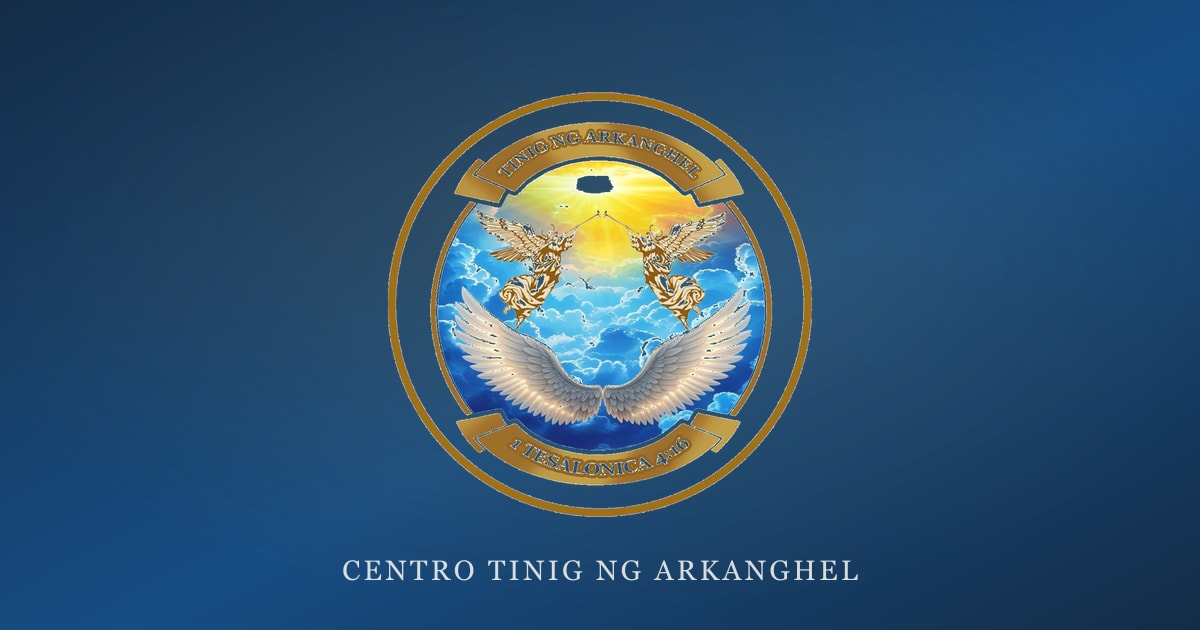
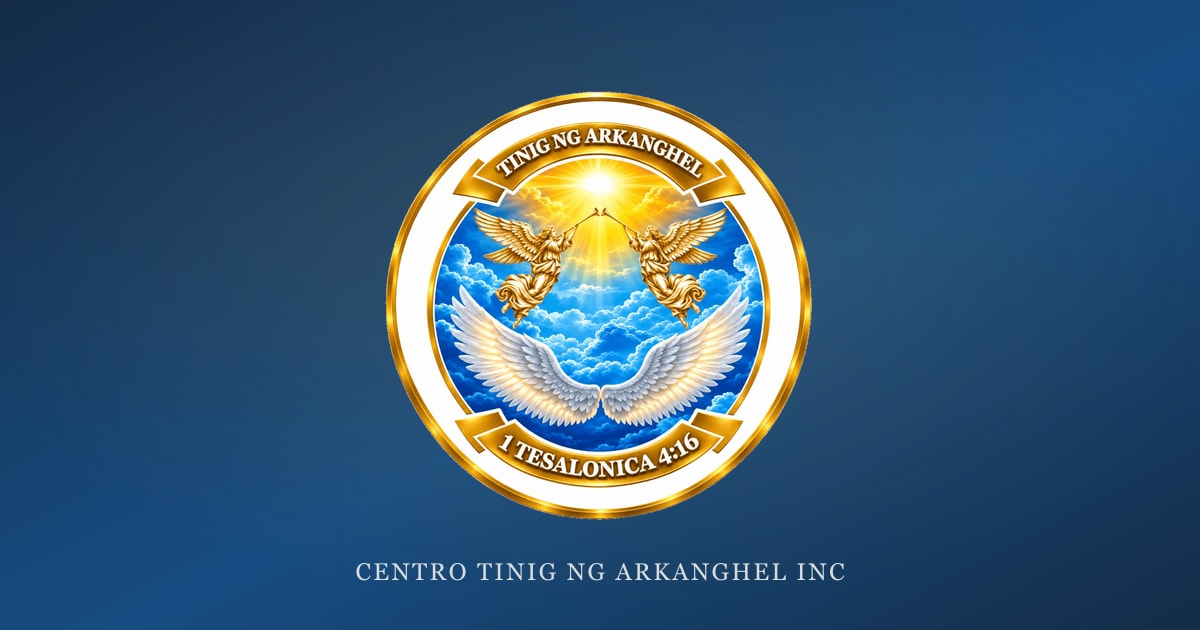
fx

Changed region(s): [[0.3083, 0.1206, 0.6783, 0.8444], [0.2775, 0.8746, 0.7092, 0.9349]]

diff --git a/src/pages/HomePage.tsx b/src/pages/HomePage.tsx
@@ -46,20 +46,29 @@ export function HomePage() {
           <div className="absolute inset-0 bg-gradient-to-br from-light-glow via-ivory to-sky/25" />
         )}
 
-        <div className="relative mx-auto grid max-w-6xl items-center gap-10 px-4 py-20 sm:px-6 lg:grid-cols-[1fr_1.1fr] lg:py-28">
+        <div
+          className={`relative mx-auto flex max-w-6xl flex-col px-4 py-16 sm:px-6 sm:py-20 lg:py-24 ${
+            hero ? 'items-center text-center' : 'items-start lg:items-center lg:text-center'
+          }`}
+        >
           <motion.div
-            initial={{ opacity: 0, x: -16 }}
-            animate={{ opacity: 1, x: 0 }}
-            className={`flex flex-col items-start ${hero ? '' : 'lg:items-center'}`}
+            initial={{ opacity: 0, y: -12 }}
+            animate={{ opacity: 1, y: 0 }}
+            className="mb-8 sm:mb-10"
           >
-            <ChurchLogo variant={hero ? 'light' : 'dark'} size="hero" showText={false} />
+            <ChurchLogo
+              variant={hero ? 'light' : 'dark'}
+              size="hero"
+              showText={false}
+              presentation={hero ? 'banner' : 'default'}
+            />
           </motion.div>
 
-          <div>
+          <div className={hero ? 'max-w-3xl' : 'max-w-2xl'}>
             <motion.p
               initial={{ opacity: 0, y: 12 }}
               animate={{ opacity: 1, y: 0 }}
-              className="text-gold-glow max-w-2xl text-[1.24rem] font-bold uppercase leading-snug tracking-[0.1em] text-gold-light sm:text-2xl sm:tracking-[0.14em] md:text-[1.75rem]"
+              className="text-gold-glow mx-auto text-[1.24rem] font-bold uppercase leading-snug tracking-[0.1em] text-gold-light sm:text-2xl sm:tracking-[0.14em] md:text-[1.75rem]"
             >
               {HERO_MINISTRY_LINE}
             </motion.p>
@@ -68,7 +77,7 @@ export function HomePage() {
               animate={{ opacity: 1, y: 0 }}
               transition={{ delay: 0.06 }}
               className={`font-display mt-4 text-3xl font-semibold leading-[1.08] sm:text-5xl lg:text-6xl ${
-                hero ? 'text-ivory' : 'text-navy'
+                hero ? 'text-ivory drop-shadow-[0_2px_16px_rgba(0,0,0,0.45)]' : 'text-navy'
               }`}
             >
               {SITE_NAME}
@@ -77,34 +86,36 @@ export function HomePage() {
               initial={{ opacity: 0, y: 16 }}
               animate={{ opacity: 1, y: 0 }}
               transition={{ delay: 0.12 }}
-              className={`mt-5 max-w-xl text-lg leading-relaxed ${hero ? 'text-ivory/85' : 'text-navy/75'}`}
-            >
-            A compassionate center of holistic healing, prayer, and wellness — serving as humble instruments
-              of God&apos;s grace.
-          </motion.p>
-          <motion.div
-            initial={{ opacity: 0, y: 16 }}
-            animate={{ opacity: 1, y: 0 }}
-            transition={{ delay: 0.18 }}
-            className="mt-8 flex flex-wrap gap-3"
-          >
-            <Link
-              to="/about"
-              className="rounded-full bg-gold px-7 py-3 text-sm font-semibold tracking-wide text-navy transition hover:bg-gold/90"
-            >
-              Vision &amp; mission
-            </Link>
-            <Link
-              to="/gallery"
-              className={`rounded-full border px-7 py-3 text-sm font-semibold tracking-wide transition ${
-                hero
-                  ? 'border-ivory/40 text-ivory hover:border-gold hover:text-gold'
-                  : 'border-navy/20 text-navy hover:border-royal'
+              className={`mx-auto mt-5 max-w-xl text-lg leading-relaxed ${
+                hero ? 'text-ivory/90 drop-shadow-[0_1px_10px_rgba(0,0,0,0.4)]' : 'text-navy/75'
               }`}
             >
-              View gallery
-            </Link>
-          </motion.div>
+              A compassionate center of holistic healing, prayer, and wellness — serving as humble instruments
+              of God&apos;s grace.
+            </motion.p>
+            <motion.div
+              initial={{ opacity: 0, y: 16 }}
+              animate={{ opacity: 1, y: 0 }}
+              transition={{ delay: 0.18 }}
+              className={`mt-8 flex flex-wrap gap-3 ${hero ? 'justify-center' : ''}`}
+            >
+              <Link
+                to="/about"
+                className="rounded-full bg-gold px-7 py-3 text-sm font-semibold tracking-wide text-navy shadow-lg transition hover:bg-gold/90"
+              >
+                Vision &amp; mission
+              </Link>
+              <Link
+                to="/gallery"
+                className={`rounded-full border px-7 py-3 text-sm font-semibold tracking-wide transition ${
+                  hero
+                    ? 'border-ivory/50 bg-navy/35 text-ivory backdrop-blur-sm hover:border-gold hover:text-gold'
+                    : 'border-navy/20 text-navy hover:border-royal'
+                }`}
+              >
+                View gallery
+              </Link>
+            </motion.div>
           </div>
         </div>
       </section>

diff --git a/src/components/ChurchLogo.tsx b/src/components/ChurchLogo.tsx
@@ -1,33 +1,55 @@
-import { LOGO_SRC, SITE_NAME } from '../lib/brand';
+import { LOGO_SRC, LOGO_SRC_HD, SITE_NAME } from '../lib/brand';
 
 type ChurchLogoProps = {
   className?: string;
   variant?: 'light' | 'dark';
   showText?: boolean;
   size?: 'header' | 'hero' | 'feature';
+  /** Large crest on photo hero — medallion frame for contrast */
+  presentation?: 'default' | 'banner';
 };
 
-const logoHeights = {
-  header: 'h-12 sm:h-14',
-  hero: 'h-24 sm:h-32 md:h-36',
-  feature: 'h-20 sm:h-24',
+const logoSizes = {
+  header: 'h-14 w-14 sm:h-16 sm:w-16',
+  hero: 'h-40 w-40 sm:h-48 sm:w-48 md:h-56 md:w-56 lg:h-64 lg:w-64',
+  heroBanner: 'h-44 w-44 sm:h-56 sm:w-56 md:h-64 md:w-64 lg:h-[17.5rem] lg:w-[17.5rem]',
+  feature: 'h-24 w-24 sm:h-28 sm:w-28',
 };
 
-/** Official crest from public/logo.jpg */
+/** Official crest only — no site text overlay; white backdrop removed in `npm run logo`. */
 export function ChurchLogo({
   className = '',
   variant = 'dark',
   showText = true,
   size = 'header',
+  presentation = 'default',
 }: ChurchLogoProps) {
   const text = variant === 'light' ? 'text-ivory' : 'text-navy';
+  const isHero = size === 'hero';
+  const isBanner = isHero && presentation === 'banner';
+  const src = isHero ? LOGO_SRC_HD : LOGO_SRC;
+
+  const img = (
+    <img
+      src={src}
+      alt={SITE_NAME}
+      width={1024}
+      height={1024}
+      decoding={isHero ? 'sync' : 'async'}
+      fetchPriority={isHero ? 'high' : undefined}
+      className={`${isBanner ? logoSizes.heroBanner : logoSizes[size]} shrink-0 object-contain ${
+        isBanner
+          ? 'drop-shadow-[0_8px_32px_rgba(0,0,0,0.55)]'
+          : isHero
+            ? 'drop-shadow-[0_6px_28px_rgba(0,0,0,0.45)]'
+            : 'drop-shadow-[0_2px_12px_rgba(0,0,0,0.25)]'
+      }`}
+    />
+  );
+
   return (
     <div className={`flex items-center gap-3 sm:gap-4 ${className}`}>
-      <img
-        src={LOGO_SRC}
-        alt={SITE_NAME}
-        className={`${logoHeights[size]} w-auto max-w-[min(220px,42vw)] object-contain object-left drop-shadow-sm`}
-      />
+      {isBanner ? <div className="hero-logo-badge">{img}</div> : img}
       {showText && size === 'header' && (
         <div className="max-w-[11rem] leading-tight sm:max-w-none">
           <p className={`font-display text-sm font-semibold tracking-wide sm:text-base ${text}`}>{SITE_NAME}</p>

diff --git a/src/content/founder.ts b/src/content/founder.ts
@@ -2,13 +2,15 @@ import { SITE_NAME } from '../lib/brand';
 
 export const founder = {
   name: 'Ancelin Advincula Arcangel',
-  role: 'Founder & owner',
+  role: 'Founder & Spiritual Ministry Leader',
   organization: SITE_NAME,
   photoSrc: '/people/ancelin-advincula-arcangel.jpg',
-  photoAlt: 'Portrait of Ancelin Advincula Arcangel, founder and owner of Centro Tinig ng Arkanghel Inc.',
+  photoAlt:
+    'Portrait of Ancelin Advincula Arcangel, founder and spiritual ministry leader of Centro Tinig ng Arkanghel Inc.',
   paragraphs: [
-    `${SITE_NAME} was founded and is led by Ancelin Advincula Arcangel, who serves as owner and guiding minister of the community.`,
-    'Under her leadership, CTNA offers spiritual healing, traditional wellness, prayer, and evangelization — always recognizing God as the true source of healing.',
-    'Several CTNA healing practices, including spiritual cleansing for deliverance, uterine alignment, and traditional blood cleansing (Bantil or Kolebra), are taught and shared through her ministry.',
+    'Ancelin began her spiritual ministry journey at the age of 10 in 1996. For 30 years, she has continuously developed and practiced her spiritual gifts, dedicating her experiences and abilities to helping others and serving God.',
+    `As the founder of ${SITE_NAME}, she leads the ministry in spiritual healing, traditional wellness, prayer, charity, and evangelization, recognizing God as the true source of healing.`,
+    'She is also a businesswoman and a graduate of Practical Nursing. Her greatest purpose is to use her knowledge, experiences, and spiritual gifts as instruments of God\'s love and service to humanity.',
   ],
+  quote: 'All gifts come from God, and all glory belongs to Him.',
 } as const;

diff --git a/src/index.css b/src/index.css
@@ -219,6 +219,38 @@ body {
   text-shadow: 0 0 24px color-mix(in srgb, var(--color-gold) 50%, transparent);
 }
 
+.hero-logo-badge {
+  position: relative;
+  display: flex;
+  align-items: center;
+  justify-content: center;
+  padding: 0.65rem;
+  border-radius: 9999px;
+  background: radial-gradient(
+    circle at 50% 45%,
+    color-mix(in srgb, var(--color-navy) 92%, transparent) 0%,
+    color-mix(in srgb, var(--color-navy) 72%, transparent) 52%,
+    transparent 72%
+  );
+  box-shadow:
+    0 0 0 3px color-mix(in srgb, var(--color-gold) 65%, transparent),
+    0 0 0 6px color-mix(in srgb, var(--color-navy) 55%, transparent),
+    0 16px 48px rgba(0, 0, 0, 0.55);
+}
+
+.hero-logo-badge::before {
+  content: '';
+  position: absolute;
+  inset: 8%;
+  border-radius: 9999px;
+  background: radial-gradient(
+    circle,
+    color-mix(in srgb, var(--color-gold-light) 22%, transparent) 0%,
+    transparent 65%
+  );
+  pointer-events: none;
+}
+
 .hero-ken-burns img {
   animation: ken-burns 22s ease-in-out infinite alternate;
 }

diff --git a/src/components/FounderSection.tsx b/src/components/FounderSection.tsx
@@ -47,6 +47,11 @@ export function FounderSection() {
               <p key={paragraph.slice(0, 48)}>{paragraph}</p>
             ))}
           </div>
+          <blockquote className="mt-8 border-l-4 border-gold/70 pl-5">
+            <p className="font-display text-lg italic leading-relaxed text-navy">
+              &ldquo;{founder.quote}&rdquo;
+            </p>
+          </blockquote>
           <p className="mt-8">
             <Link
               to="/healing"

diff --git a/src/lib/brand.ts b/src/lib/brand.ts
@@ -2,4 +2,7 @@ import logoUrl from '../assets/logo.png';
 
 /** Official crest (transparent PNG). Re-run `npm run logo` after replacing logo.jpg. */
 export const LOGO_SRC = logoUrl;
+/** Full-resolution crest for hero and retina (same asset, served from public/). */
+export const LOGO_SRC_HD = '/logo.png';
+
 export const SITE_NAME = 'Centro Tinig ng Arkanghel Inc';
